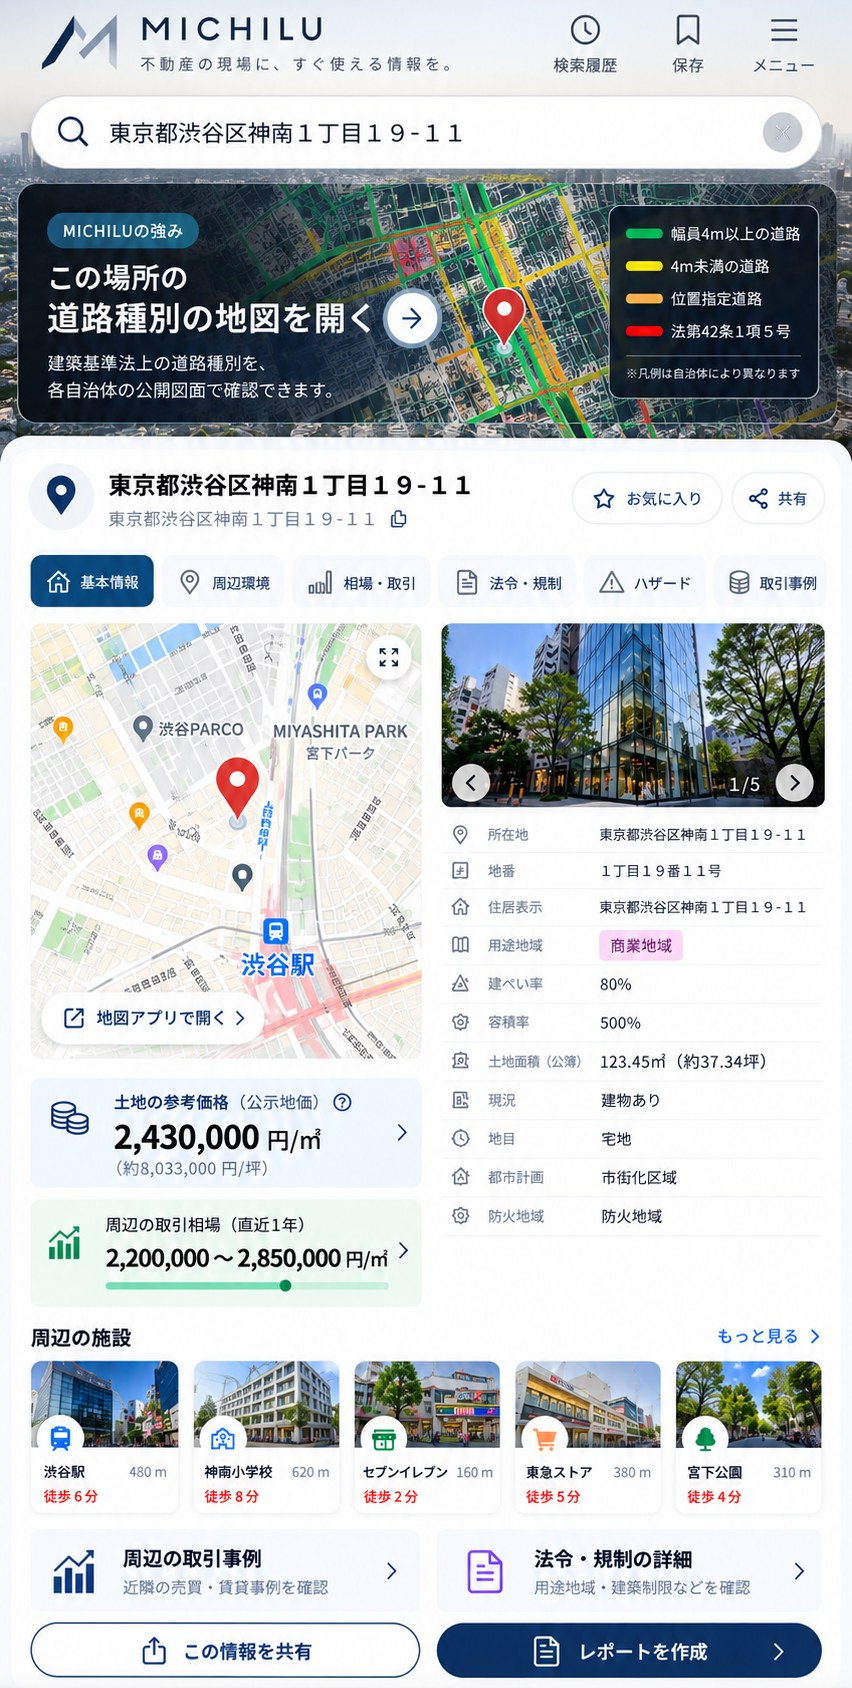
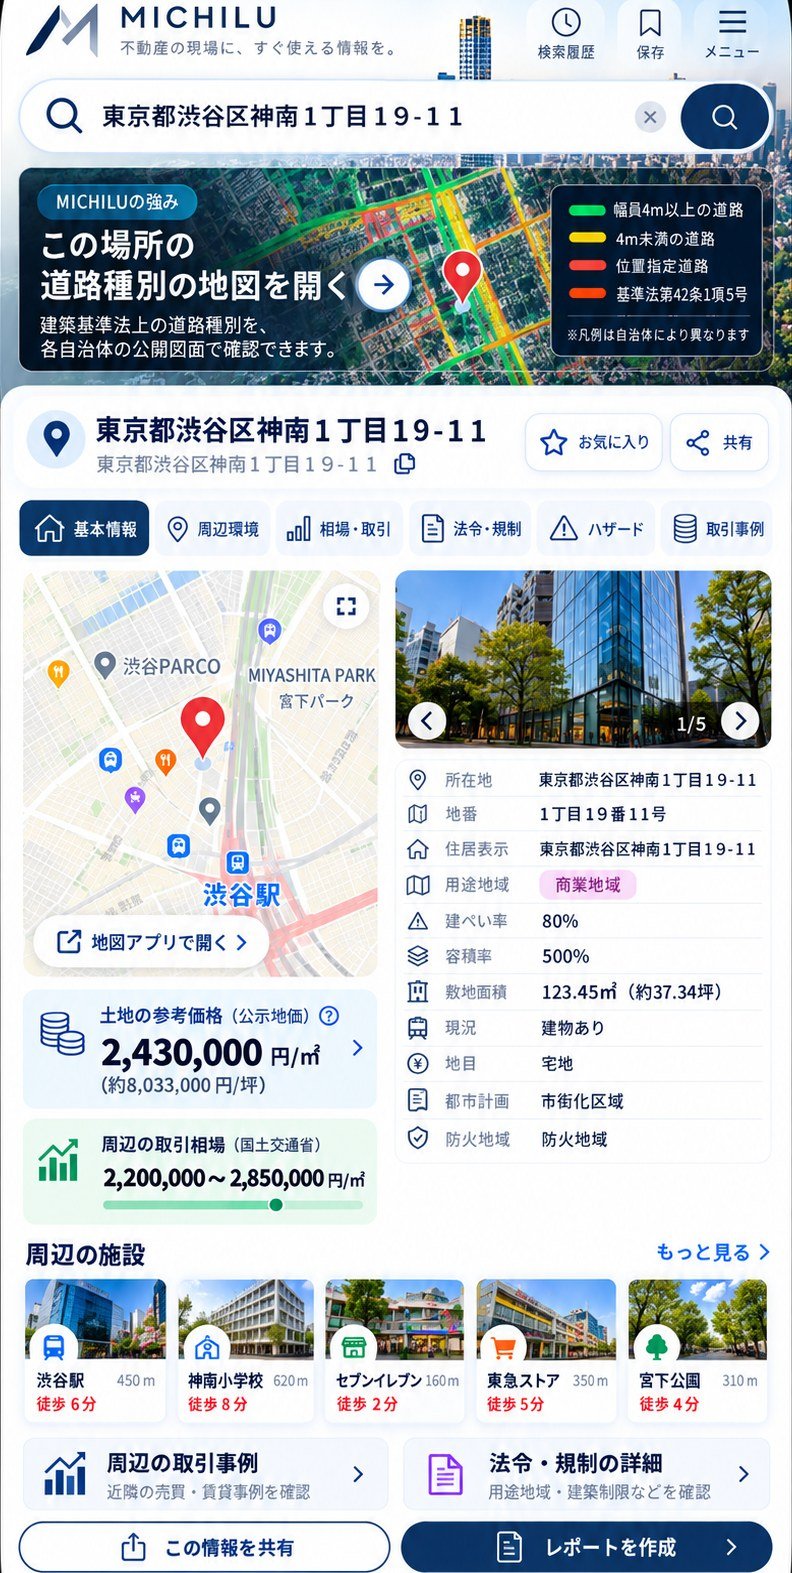
Use the iPhone-sized design picture for the mock home
Replace the picture with the version drawn at the current iPhone size
(cropped out of the phone frame, status bar and home indicator removed),
re-measure the button areas, and give the search box the navy round
button the picture has.

Claude-Session: https://claude.ai/code/session_01VXta14VyGyHnimiy8JAqdH

diff --git a/components/mock-home.tsx b/components/mock-home.tsx
@@ -2,55 +2,59 @@
 
 // 見た目の見本（ChatGPT で作った画面の絵）をそのまま敷いて、絵の各部分にボタンを重ねたホーム。
 // 絵の中の住所・数字は見本のままで、本物のデータではない。検索窓だけは本物（絵の検索窓の上に重ねる）。
-// 本物の部品ができた所から、絵のその部分を部品に置きかえていく（public/mock/ の絵は 852px 幅の元の絵から、
-// ステータスバーと下のメニューを切り離したもの）
+// 本物の部品ができた所から、絵のその部分を部品に置きかえていく。
+// public/mock/ の絵は、iPhone の枠つきの元の絵（863×1822）から画面の部分だけを切り出し、さらに
+// ステータスバーと下のメニューを切り離したもの。押せる所の座標は元の絵の座標で書き、SX・TOP を引いて使う
 import { useRef, useState } from "react";
 import { CloseIcon, SearchIcon } from "./icons";
 
-/** 元の絵の大きさ（ステータスバーを除いた上の部分と、下のメニューの帯） */
-const W = 852;
-const TOP = 68;
-const MAIN_H = 1756 - TOP;
-const NAV_H = 1824 - 1756;
+/** 元の絵の中の画面の位置と大きさ */
+const SX = 35; // 画面の左端
+const W = 792; // 画面の幅
+const TOP = 112; // 上の絵の上端（ステータスバーの下、ロゴの少し上）
+const NAV_TOP = 1685; // 下のメニューの帯の上端
+const NAV_END = 1768; // 下のメニューの帯の下端（ホームバーの上）
+const MAIN_H = NAV_TOP - TOP;
+const NAV_H = NAV_END - NAV_TOP;
 
 /** 絵の中の押せる所（元の絵の座標。x1,y1,x2,y2） */
 type Spot = { label: string; box: [number, number, number, number]; action: string };
 
 const MAIN_SPOTS: Spot[] = [
-  { label: "検索履歴", box: [548, 78, 628, 148], action: "history" },
-  { label: "保存", box: [650, 78, 728, 148], action: "favorites" },
-  { label: "メニュー", box: [745, 78, 825, 148], action: "menu" },
-  { label: "この場所の道路種別の地図を開く", box: [20, 254, 832, 494], action: "nudge" },
-  { label: "お気に入り", box: [570, 532, 724, 594], action: "favorites" },
-  { label: "共有", box: [733, 532, 828, 594], action: "nudge" },
-  { label: "基本情報", box: [30, 618, 156, 678], action: "nudge" },
-  { label: "周辺環境", box: [160, 618, 288, 678], action: "nudge" },
-  { label: "相場・取引", box: [292, 618, 432, 678], action: "nudge" },
-  { label: "法令・規制", box: [437, 618, 579, 678], action: "nudge" },
-  { label: "ハザード", box: [583, 618, 706, 678], action: "nudge" },
-  { label: "取引事例", box: [710, 618, 830, 678], action: "nudge" },
-  { label: "地図で選ぶ", box: [30, 688, 422, 1128], action: "map" },
-  { label: "土地の参考価格", box: [30, 1138, 422, 1264], action: "nudge" },
-  { label: "周辺の取引相場", box: [30, 1270, 422, 1372], action: "nudge" },
-  { label: "もっと見る", box: [705, 1385, 830, 1425], action: "nudge" },
-  { label: "周辺の取引事例", box: [30, 1593, 420, 1684], action: "nudge" },
-  { label: "法令・規制の詳細", box: [434, 1593, 830, 1684], action: "help" },
-  { label: "この情報を共有", box: [30, 1690, 420, 1750], action: "nudge" },
-  { label: "レポートを作成", box: [434, 1690, 830, 1750], action: "nudge" },
+  { label: "検索履歴", box: [558, 114, 640, 186], action: "history" },
+  { label: "保存", box: [646, 114, 726, 186], action: "favorites" },
+  { label: "メニュー", box: [730, 114, 810, 186], action: "menu" },
+  { label: "この場所の道路種別の地図を開く", box: [54, 282, 808, 483], action: "nudge" },
+  { label: "お気に入り", box: [558, 524, 700, 582], action: "favorites" },
+  { label: "共有", box: [704, 524, 808, 582], action: "nudge" },
+  { label: "基本情報", box: [54, 605, 186, 663], action: "nudge" },
+  { label: "周辺環境", box: [190, 605, 308, 663], action: "nudge" },
+  { label: "相場・取引", box: [312, 605, 438, 663], action: "nudge" },
+  { label: "法令・規制", box: [442, 605, 568, 663], action: "nudge" },
+  { label: "ハザード", box: [572, 605, 690, 663], action: "nudge" },
+  { label: "取引事例", box: [694, 605, 808, 663], action: "nudge" },
+  { label: "地図で選ぶ", box: [56, 682, 414, 1088], action: "map" },
+  { label: "土地の参考価格", box: [56, 1097, 414, 1223], action: "nudge" },
+  { label: "周辺の取引相場", box: [56, 1233, 414, 1333], action: "nudge" },
+  { label: "もっと見る", box: [686, 1348, 808, 1384], action: "nudge" },
+  { label: "周辺の取引事例", box: [56, 1547, 426, 1627], action: "nudge" },
+  { label: "法令・規制の詳細", box: [436, 1547, 808, 1627], action: "help" },
+  { label: "この情報を共有", box: [56, 1633, 426, 1687], action: "nudge" },
+  { label: "レポートを作成", box: [436, 1633, 808, 1687], action: "nudge" },
 ];
 
 const NAV_SPOTS: Spot[] = [
-  { label: "ホーム", box: [30, 1756, 180, 1824], action: "home" },
-  { label: "検索履歴", box: [240, 1756, 400, 1824], action: "history" },
-  { label: "お気に入り", box: [450, 1756, 610, 1824], action: "favorites" },
-  { label: "マイページ", box: [670, 1756, 830, 1824], action: "account" },
+  { label: "ホーム", box: [60, NAV_TOP, 210, NAV_END], action: "home" },
+  { label: "検索履歴", box: [260, NAV_TOP, 410, NAV_END], action: "history" },
+  { label: "お気に入り", box: [450, NAV_TOP, 600, NAV_END], action: "favorites" },
+  { label: "マイページ", box: [650, NAV_TOP, 800, NAV_END], action: "account" },
 ];
 
 /** 絵の検索窓の枠（この上に本物の検索窓を重ねる） */
-const SEARCH_BOX: [number, number, number, number] = [30, 165, 822, 238];
+const SEARCH_BOX: [number, number, number, number] = [58, 193, 806, 265];
 
 const pct = ([x1, y1, x2, y2]: [number, number, number, number], top: number, h: number) => ({
-  left: `${(x1 / W) * 100}%`,
+  left: `${((x1 - SX) / W) * 100}%`,
   top: `${((y1 - top) / h) * 100}%`,
   width: `${((x2 - x1) / W) * 100}%`,
   height: `${((y2 - y1) / h) * 100}%`,
@@ -85,7 +89,7 @@ export function MockHome({ input, setInput, onSearch, loading, error, onAction }
   };
 
   return (
-    <div className="flex min-h-0 flex-1 flex-col bg-[#e5edf6]">
+    <div className="flex min-h-0 flex-1 flex-col bg-[#f4f8fd]">
       <div ref={scroller} className="min-h-0 flex-1 overflow-y-auto overscroll-y-contain pt-[env(safe-area-inset-top)]">
         <div className="relative mx-auto w-full max-w-[600px]">
           {/* 絵（上の部分） */}
@@ -109,10 +113,8 @@ export function MockHome({ input, setInput, onSearch, loading, error, onAction }
             <label htmlFor="address" className="sr-only">
               住所
             </label>
-            <div className="flex h-full items-center gap-2 rounded-full bg-white pl-3 pr-2 shadow-[0_6px_18px_rgba(15,47,95,0.12)] ring-1 ring-white focus-within:ring-navy/30">
-              <button type="submit" disabled={loading} aria-label="検索" className="flex h-9 w-9 shrink-0 items-center justify-center rounded-full text-navy active:bg-mist">
-                {loading ? <span className="h-5 w-5 animate-spin rounded-full border-2 border-navy/30 border-t-navy" /> : <SearchIcon className="h-6 w-6" />}
-              </button>
+            <div className="flex h-full items-center gap-1.5 rounded-full bg-white py-[3px] pl-3 pr-[3px] shadow-[0_6px_18px_rgba(15,47,95,0.12)] ring-1 ring-white focus-within:ring-navy/30">
+              <SearchIcon className="h-5 w-5 shrink-0 text-navy" />
               <input
                 ref={inputRef}
                 id="address"
@@ -121,13 +123,21 @@ export function MockHome({ input, setInput, onSearch, loading, error, onAction }
                 placeholder="住所・地番を入力"
                 autoComplete="off"
                 enterKeyHint="search"
-                className="min-w-0 flex-1 bg-transparent text-[17px] text-navy-deep outline-none placeholder:text-steel/60"
+                className="min-w-0 flex-1 bg-transparent text-[16px] text-navy-deep outline-none placeholder:text-steel/60"
               />
               {input && (
-                <button type="button" onClick={() => setInput("")} aria-label="入力を消す" className="flex h-7 w-7 shrink-0 items-center justify-center rounded-full bg-mist text-steel">
-                  <CloseIcon className="h-3.5 w-3.5" />
+                <button type="button" onClick={() => setInput("")} aria-label="入力を消す" className="flex h-6 w-6 shrink-0 items-center justify-center rounded-full bg-mist text-steel">
+                  <CloseIcon className="h-3 w-3" />
                 </button>
               )}
+              <button
+                type="submit"
+                disabled={loading}
+                aria-label="検索"
+                className="bg-navy-gradient flex aspect-square h-full shrink-0 items-center justify-center rounded-full text-white transition active:scale-95 disabled:opacity-60"
+              >
+                {loading ? <span className="h-4 w-4 animate-spin rounded-full border-2 border-white/40 border-t-white" /> : <SearchIcon className="h-[18px] w-[18px]" />}
+              </button>
             </div>
             {(hint || error) && (
               <p role={error ? "alert" : undefined} className={`absolute left-2 right-2 top-full mt-2 rounded-xl px-3 py-2 text-[12.5px] shadow-[0_6px_18px_rgba(15,47,95,0.16)] ${error ? "bg-[#fdecec] text-[#b4533c]" : "bg-navy text-white"}`}>
@@ -144,7 +154,7 @@ export function MockHome({ input, setInput, onSearch, loading, error, onAction }
           {/* eslint-disable-next-line @next/next/no-img-element */}
           <img src="/mock/home-nav.jpg" alt="" width={W} height={NAV_H} className="block h-auto w-full select-none" draggable={false} />
           {NAV_SPOTS.map((s) => (
-            <button key={s.label} onClick={() => act(s.action)} aria-label={s.label} className="absolute active:bg-navy/10" style={pct(s.box, 1756, NAV_H)} />
+            <button key={s.label} onClick={() => act(s.action)} aria-label={s.label} className="absolute active:bg-navy/10" style={pct(s.box, NAV_TOP, NAV_H)} />
           ))}
         </div>
       </div>
